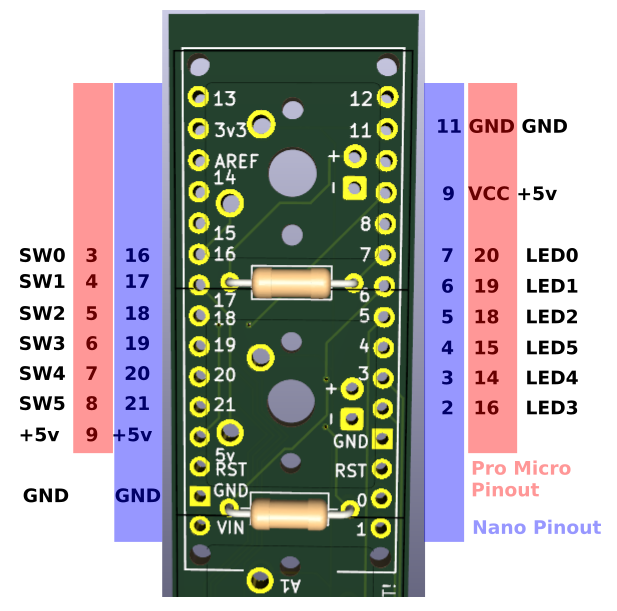
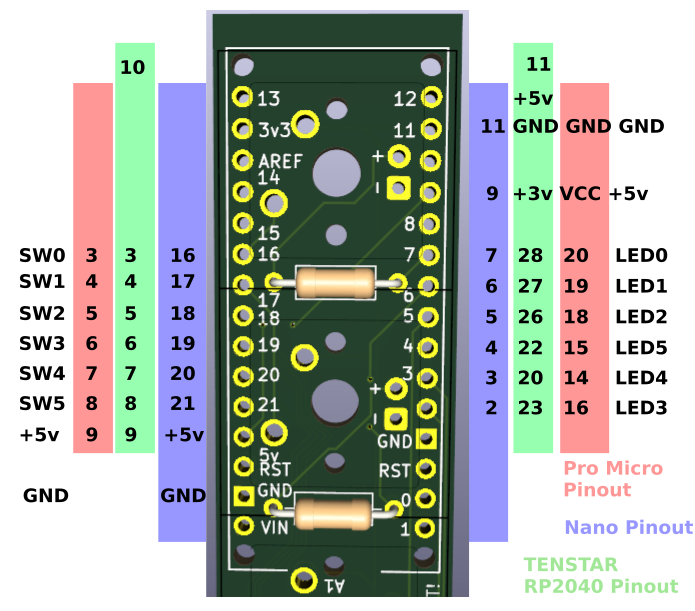
Updates

diff --git a/README.md b/README.md
@@ -1,0 +1,14 @@
+# James Neko's Strim Dick
+
+I made my own 6-key macropad for streaming out of an old mechanical key 'switch tester' I had! In doing so, I designed and had my very first PCB manufactured!
+
+There's code here for both Arduino C++ _(Using a Nano, and relying on a Perl [lazy-serial-daemon](https://bitbucket.org/jamesneko/lazy-serial-daemon) plugin to respond to the keys)_ and CircuitPython for a TENSTAR RP2040 board that uses the Pro Micro form factor.
+
+There's also some 3D printing files - one for the partial enclosure I adapted my switch tester with, one for a full housing for it.
+
+I made a [video](https://www.youtube.com/watch?v=3drgDwhuff8) about it on my channel.
+
+## Errata
+
+When laying out the PCB, I decided to grab the closer A6 and A7 inputs for switches 4 and 5, but I forgot that the Arduino Nano _doesn't let you do digital input on those pins_. I ended up using bodge wires from A0 and A1 to A6 and A7 to let me still easily read the switch status.
+
